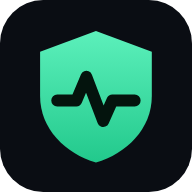
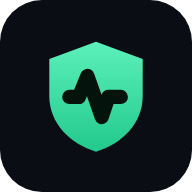
Redraw the mark and outline the wordmark
The logo set had two defects that only showed up under inspection.

The wordmark was live <text> in Syne with a fallback chain, so it
rendered in whatever face the viewer happened to have — on a machine
without Syne it silently became a different typeface, and on one with
Syne it overflowed: the real wordmark needs 303 units of a 260-unit
viewBox, so the lockup was clipping the end of the name. It is now
outlined Syne ExtraBold with a viewBox measured from the actual glyph
bounds, so it renders identically everywhere with no webfont.

The pulse was also too fine to survive a favicon. Rendering candidates
at 16px showed the 5.2-weight stroke silting up into a squiggle, while
heavier variants closed the counters and turned the shield into a blob.
The shipped mark uses a 7.5 stroke with slightly more amplitude, which
keeps a readable heartbeat at 16px without crowding the silhouette.

Every raster is regenerated from the new mark: tab icons transparent,
home-screen and Apple icons on a dark plate because iOS composites a
transparent PNG onto black and squares the corners itself. The share
image is rebuilt on the new mark with the fonts embedded, which also
fixed severity bars that rendered empty — the fill was an inline span
inside a non-flex parent, so its width was ignored.

Adds mark.svg (shield alone) and logo-on-light.svg (dark wordmark), and
puts the real mark in the site header, which until now was the letter
"A" in a rounded box.
[…]

diff --git a/auditpulse/src/styles.css b/auditpulse/src/styles.css
@@ -98,7 +98,8 @@ svg:not([width]){width:16px;height:16px;display:inline-block;vertical-align:midd
 }
 .appbar-inner{display:flex;align-items:center;gap:var(--s-6);padding:var(--s-3) 0}
 .brand{display:inline-flex;align-items:center;gap:9px;text-decoration:none;color:var(--ink);font-family:'Syne',sans-serif;font-weight:800;font-size:var(--t-lg);letter-spacing:-.04em;flex-shrink:0}
-.brand-mark{width:30px;height:30px;border-radius:8px;background:var(--accent);color:var(--accent-ink);display:grid;place-items:center;font-size:15px;font-weight:800}
+/* The mark carries its own shield silhouette and colour, so it needs no plate. */
+.brand-mark{width:30px;height:30px;display:block;flex-shrink:0}
 .nav-links{display:flex;align-items:center;gap:var(--s-1);margin-left:var(--s-2)}
 .nav-link{
   display:inline-flex;align-items:center;gap:7px;padding:7px 12px;border-radius:var(--r-md);

diff --git a/auditpulse/account.html b/auditpulse/account.html
@@ -16,7 +16,7 @@
 <body>
     <header class="appbar">
         <div class="wrap appbar-inner">
-            <a class="brand" href="/"><span class="brand-mark">A</span> AuditPulse</a>
+            <a class="brand" href="/"><img class="brand-mark" src="/mark.svg" alt="" width="30" height="30"> AuditPulse</a>
             <nav class="nav-links" aria-label="Main">
                 <a class="nav-link" href="/dashboard.html" data-nav-icon="grid">Dashboard</a>
                 <a class="nav-link" href="/account.html" aria-current="page" data-nav-icon="user">Account</a>

diff --git a/auditpulse/dashboard.html b/auditpulse/dashboard.html
@@ -16,7 +16,7 @@
 <body>
     <header class="appbar">
         <div class="wrap appbar-inner">
-            <a class="brand" href="/"><span class="brand-mark">A</span> AuditPulse</a>
+            <a class="brand" href="/"><img class="brand-mark" src="/mark.svg" alt="" width="30" height="30"> AuditPulse</a>
             <nav class="nav-links" aria-label="Main">
                 <a class="nav-link" href="/dashboard.html" aria-current="page" data-nav-icon="grid">Dashboard</a>
                 <a class="nav-link" href="/account.html" data-nav-icon="user">Account</a>

diff --git a/auditpulse/index.html b/auditpulse/index.html
@@ -54,7 +54,7 @@
 </head>
 <body>
     <header class="topbar wrap">
-        <a class="brand" href="/"><span class="brand-mark">A</span> AuditPulse</a>
+        <a class="brand" href="/"><img class="brand-mark" src="/mark.svg" alt="" width="30" height="30"> AuditPulse</a>
         <a class="text-button nav-pricing" href="./pricing.html">Pricing</a>
         <div id="header-controls" data-auth-controls></div>
     </header>

diff --git a/auditpulse/pricing.html b/auditpulse/pricing.html
@@ -164,7 +164,7 @@
 </head>
 <body>
     <header class="topbar wrap">
-        <a class="brand" href="/"><span class="brand-mark">A</span> AuditPulse</a>
+        <a class="brand" href="/"><img class="brand-mark" src="/mark.svg" alt="" width="30" height="30"> AuditPulse</a>
         <div id="header-controls" data-auth-controls></div>
     </header>
 

diff --git a/auditpulse/report.html b/auditpulse/report.html
@@ -40,7 +40,7 @@
 </head>
 <body>
     <header class="topbar wrap">
-        <a class="brand" href="/"><span class="brand-mark">A</span> AuditPulse</a>
+        <a class="brand" href="/"><img class="brand-mark" src="/mark.svg" alt="" width="30" height="30"> AuditPulse</a>
     </header>
 
     <main class="wrap-narrow" style="padding:24px 0 80px">

diff --git a/auditpulse/verify.html b/auditpulse/verify.html
@@ -31,7 +31,7 @@
 </head>
 <body>
     <header class="topbar wrap">
-        <a class="brand" href="/"><span class="brand-mark">A</span> AuditPulse</a>
+        <a class="brand" href="/"><img class="brand-mark" src="/mark.svg" alt="" width="30" height="30"> AuditPulse</a>
     </header>
 
     <main class="wrap-narrow" style="padding:24px 0 80px">
